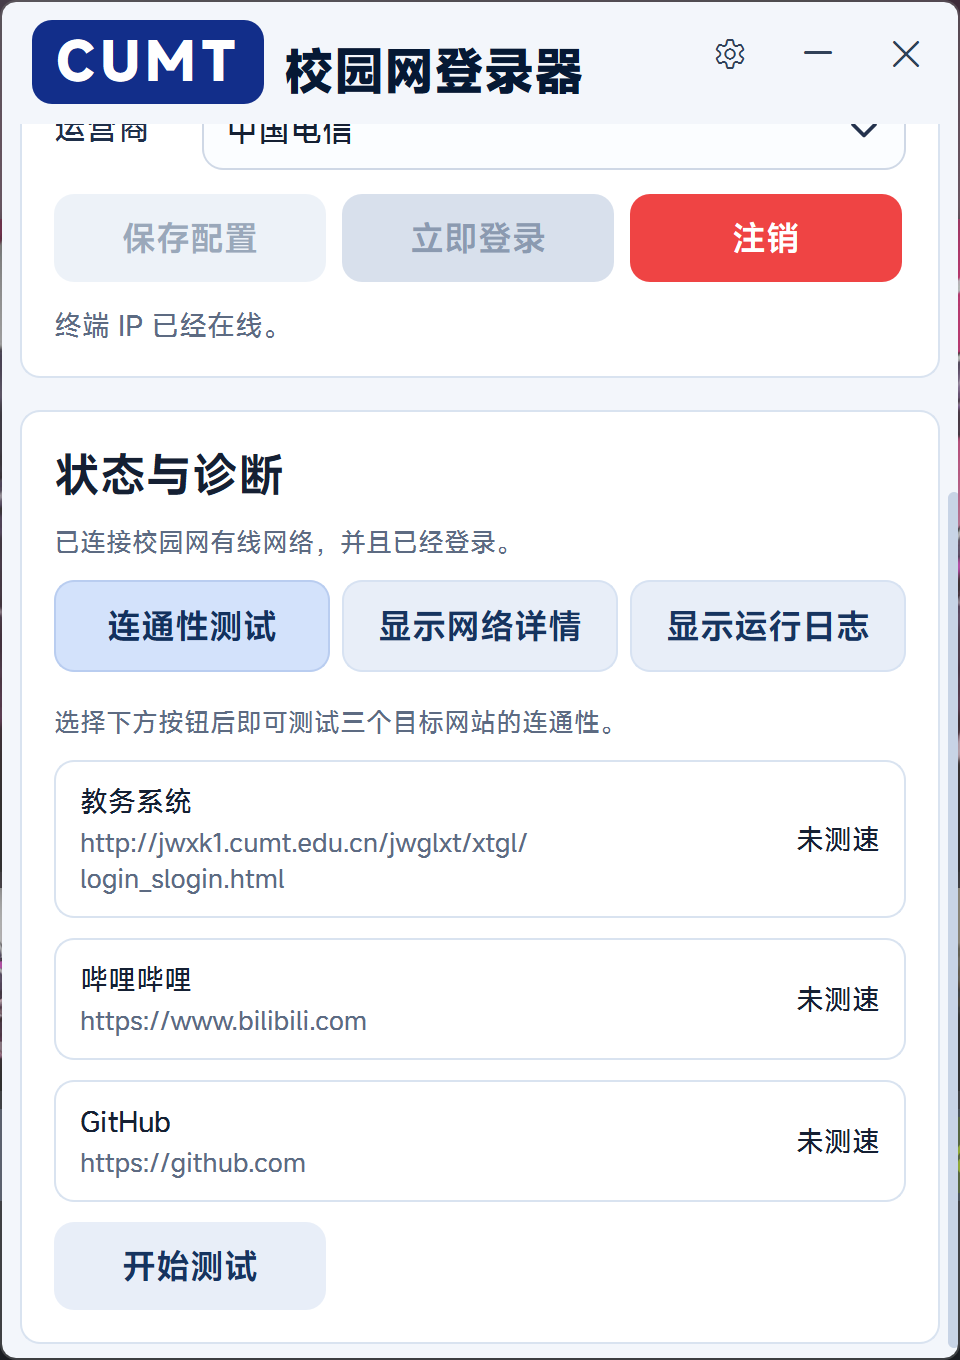
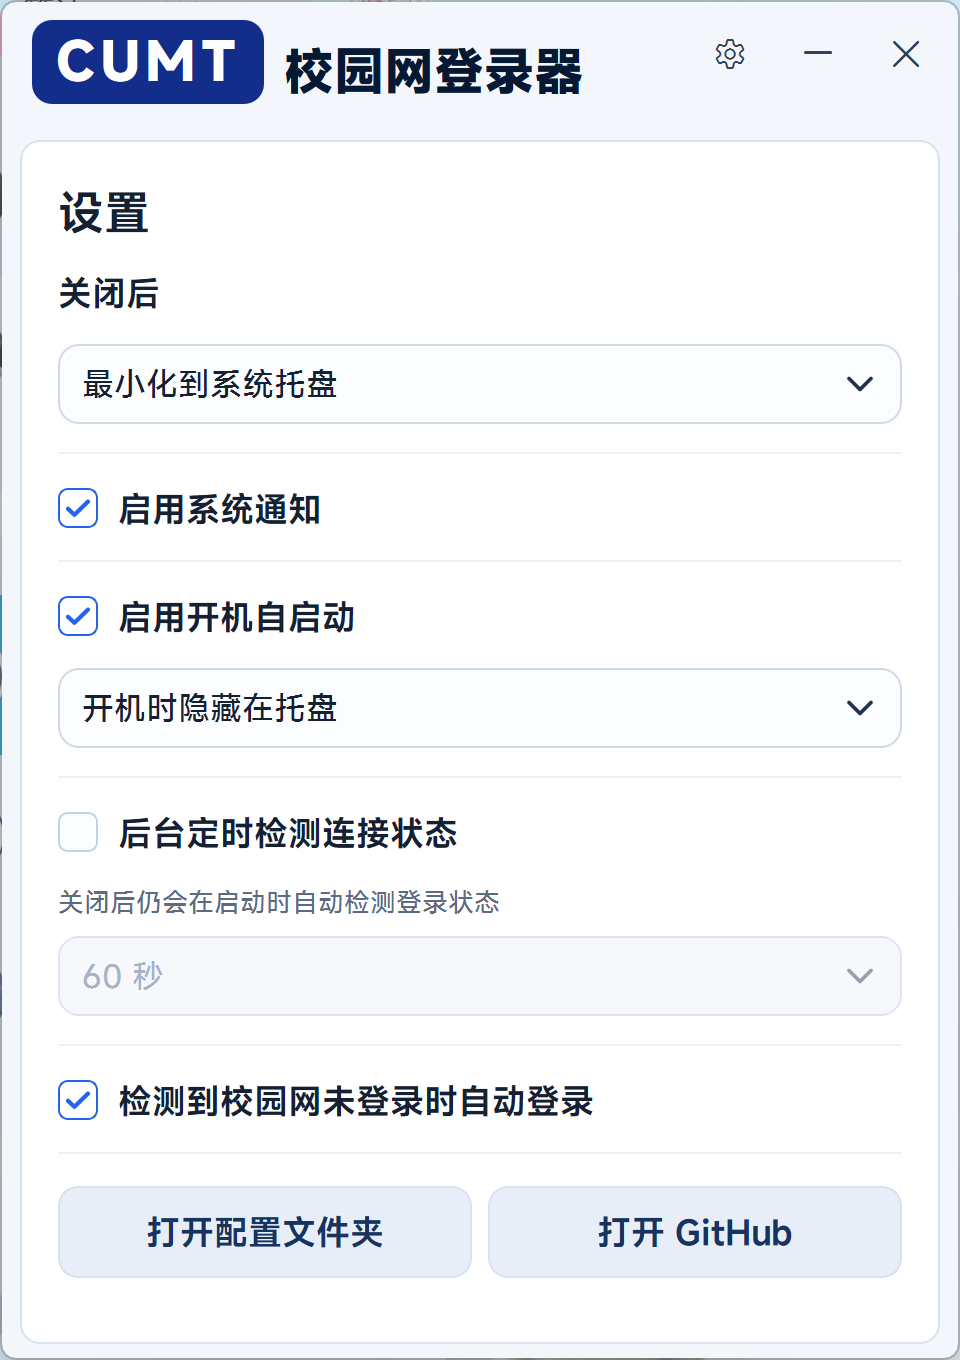
Update README images and project link

diff --git a/paths.py b/paths.py
@@ -33,7 +33,7 @@ ICON_DIR = RESOURCE_DIR / "assets" / "icons"
 APP_ICON_PATH = ICON_DIR / "app.png"
 APP_ICO_PATH = ICON_DIR / "app.ico"
 ACTIVE_APP_ICON_PATH = APP_ICON_PATH
-PROJECT_GITHUB_URL = ""
+PROJECT_GITHUB_URL = "https://github.com/Frost-Goblin/campus-login"
 if str(BASE_DIR) not in sys.path:
     sys.path.insert(0, str(BASE_DIR))
 
